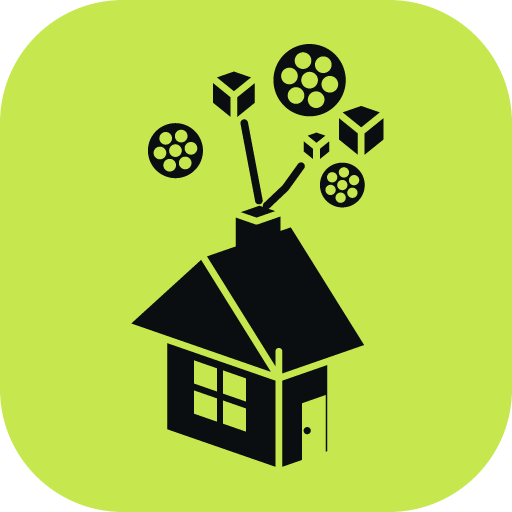
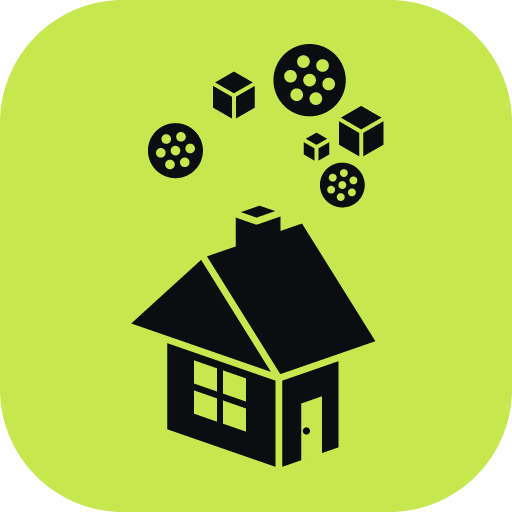
fix(brand): drop the chimney trails, and fix the door slit and cube axes
Four things, three of them real geometry bugs.

The trails are gone. A stroke thin enough not to dominate the mark is one
that reads as a scratch at icon size, and no amount of curving fixed that.
The objects convey "out of the chimney" by where they sit.

The door ended a fraction short of the wall's edge, leaving a hairline of
wall that rendered as a detached slit rather than a door frame. The wall is
deeper now and the door has real margin either side.

The wall seam's endpoint was computed with the sign of the overhang term
inverted, so it overshot the eave by 2·OVER·KY and ran up through the roof.
It now ends at the eave corner itself, which sits at the same x and cannot
drift.

Cubes borrowed the house's projection. The house is deliberately shallow so
its ridge does not climb away from the chimney, and at that ratio a small
cube's top face collapses into a sliver — every cube looked like a bent
card. They are on true isometric axes now, with a seam width scaled to their
own size rather than the roof's. Ball perforations shrank so there is solid
black between them instead of a flower outline.

diff --git a/src/components/brandArt.ts b/src/components/brandArt.ts
@@ -5,19 +5,18 @@ export const BRAND_BOX = 64
 export const BRAND_LIME = '#c6e84e'
 export const BRAND_TILE_RADIUS = 0.24
 export const BRAND_SEAM_WIDTH = 0.85
-export const BRAND_TRAIL_WIDTH = 0.95
 
 /** Filled in ink. Balls carry their holes, so these need fill-rule="evenodd". */
 export const BRAND_INK: string[] = [
-  "M20.9 53.66 L34.86 58.5 L40.91 56.4 L40.91 43.5 L34.86 45.6 L20.9 40.76 Z",
-  "M16.05 40.76 L25.46 32.19 L36.35 28.42 L45.75 43.5 L34.86 47.28 Z",
+  "M20.9 53.66 L34.86 58.5 L42.31 55.92 L42.31 43.02 L34.86 45.6 L20.9 40.76 Z",
+  "M16.05 40.76 L25.46 32.19 L37.75 27.94 L47.15 43.02 L34.86 47.28 Z",
   "M29.46 26.74 L32.44 25.71 L35.05 26.61 L35.05 35.86 L32.07 36.89 L29.46 35.99 Z",
-  "M29.24 8.94 L31.85 9.84 L31.85 12.85 L29.24 14.96 L26.64 12.85 L26.64 9.84 Z",
-  "M45.15 13.24 L47.95 14.21 L47.95 17.43 L45.15 19.69 L42.36 17.43 L42.36 14.21 Z",
-  "M39.56 16.57 L41.15 17.12 L41.15 18.95 L39.56 20.23 L37.98 18.95 L37.98 17.12 Z",
-  "M34.18 10.02 a4.52 4.52 0 1 0 9.04 0 a4.52 4.52 0 1 0 -9.04 0 Z M37.66 10.02 a1.04 1.04 0 1 0 2.08 0 a1.04 1.04 0 1 0 -2.08 0 Z M40.19 10.53 a1.04 1.04 0 1 0 2.08 0 a1.04 1.04 0 1 0 -2.08 0 Z M38.48 12.46 a1.04 1.04 0 1 0 2.08 0 a1.04 1.04 0 1 0 -2.08 0 Z M35.96 11.94 a1.04 1.04 0 1 0 2.08 0 a1.04 1.04 0 1 0 -2.08 0 Z M35.14 9.5 a1.04 1.04 0 1 0 2.08 0 a1.04 1.04 0 1 0 -2.08 0 Z M36.84 7.58 a1.04 1.04 0 1 0 2.08 0 a1.04 1.04 0 1 0 -2.08 0 Z M39.37 8.09 a1.04 1.04 0 1 0 2.08 0 a1.04 1.04 0 1 0 -2.08 0 Z",
-  "M18.49 18.83 a3.44 3.44 0 1 0 6.88 0 a3.44 3.44 0 1 0 -6.88 0 Z M21.14 18.83 a0.79 0.79 0 1 0 1.58 0 a0.79 0.79 0 1 0 -1.58 0 Z M22.36 20.37 a0.79 0.79 0 1 0 1.58 0 a0.79 0.79 0 1 0 -1.58 0 Z M20.42 20.65 a0.79 0.79 0 1 0 1.58 0 a0.79 0.79 0 1 0 -1.58 0 Z M19.2 19.12 a0.79 0.79 0 1 0 1.58 0 a0.79 0.79 0 1 0 -1.58 0 Z M19.92 17.29 a0.79 0.79 0 1 0 1.58 0 a0.79 0.79 0 1 0 -1.58 0 Z M21.86 17.01 a0.79 0.79 0 1 0 1.58 0 a0.79 0.79 0 1 0 -1.58 0 Z M23.08 18.54 a0.79 0.79 0 1 0 1.58 0 a0.79 0.79 0 1 0 -1.58 0 Z",
-  "M39.99 23.13 a2.8 2.8 0 1 0 5.6 0 a2.8 2.8 0 1 0 -5.6 0 Z M42.15 23.13 a0.64 0.64 0 1 0 1.28 0 a0.64 0.64 0 1 0 -1.28 0 Z M41.94 24.71 a0.64 0.64 0 1 0 1.28 0 a0.64 0.64 0 1 0 -1.28 0 Z M40.68 23.74 a0.64 0.64 0 1 0 1.28 0 a0.64 0.64 0 1 0 -1.28 0 Z M40.88 22.16 a0.64 0.64 0 1 0 1.28 0 a0.64 0.64 0 1 0 -1.28 0 Z M42.35 21.55 a0.64 0.64 0 1 0 1.28 0 a0.64 0.64 0 1 0 -1.28 0 Z M43.62 22.52 a0.64 0.64 0 1 0 1.28 0 a0.64 0.64 0 1 0 -1.28 0 Z M43.41 24.1 a0.64 0.64 0 1 0 1.28 0 a0.64 0.64 0 1 0 -1.28 0 Z"
+  "M29.24 8.94 L31.85 10.45 L31.85 13.46 L29.24 14.96 L26.64 13.46 L26.64 10.45 Z",
+  "M45.15 13.24 L47.95 14.85 L47.95 18.08 L45.15 19.69 L42.36 18.08 L42.36 14.85 Z",
+  "M39.56 16.57 L41.15 17.49 L41.15 19.31 L39.56 20.23 L37.98 19.31 L37.98 17.49 Z",
+  "M34.18 10.02 a4.52 4.52 0 1 0 9.04 0 a4.52 4.52 0 1 0 -9.04 0 Z M37.91 10.02 a0.79 0.79 0 1 0 1.58 0 a0.79 0.79 0 1 0 -1.58 0 Z M40.3 10.5 a0.79 0.79 0 1 0 1.58 0 a0.79 0.79 0 1 0 -1.58 0 Z M38.69 12.33 a0.79 0.79 0 1 0 1.58 0 a0.79 0.79 0 1 0 -1.58 0 Z M36.3 11.84 a0.79 0.79 0 1 0 1.58 0 a0.79 0.79 0 1 0 -1.58 0 Z M35.52 9.53 a0.79 0.79 0 1 0 1.58 0 a0.79 0.79 0 1 0 -1.58 0 Z M37.14 7.7 a0.79 0.79 0 1 0 1.58 0 a0.79 0.79 0 1 0 -1.58 0 Z M39.53 8.19 a0.79 0.79 0 1 0 1.58 0 a0.79 0.79 0 1 0 -1.58 0 Z",
+  "M18.49 18.83 a3.44 3.44 0 1 0 6.88 0 a3.44 3.44 0 1 0 -6.88 0 Z M21.33 18.83 a0.6 0.6 0 1 0 1.2 0 a0.6 0.6 0 1 0 -1.2 0 Z M22.49 20.29 a0.6 0.6 0 1 0 1.2 0 a0.6 0.6 0 1 0 -1.2 0 Z M20.65 20.56 a0.6 0.6 0 1 0 1.2 0 a0.6 0.6 0 1 0 -1.2 0 Z M19.5 19.1 a0.6 0.6 0 1 0 1.2 0 a0.6 0.6 0 1 0 -1.2 0 Z M20.18 17.38 a0.6 0.6 0 1 0 1.2 0 a0.6 0.6 0 1 0 -1.2 0 Z M22.02 17.1 a0.6 0.6 0 1 0 1.2 0 a0.6 0.6 0 1 0 -1.2 0 Z M23.17 18.56 a0.6 0.6 0 1 0 1.2 0 a0.6 0.6 0 1 0 -1.2 0 Z",
+  "M39.99 23.13 a2.8 2.8 0 1 0 5.6 0 a2.8 2.8 0 1 0 -5.6 0 Z M42.3 23.13 a0.49 0.49 0 1 0 0.98 0 a0.49 0.49 0 1 0 -0.98 0 Z M42.1 24.63 a0.49 0.49 0 1 0 0.98 0 a0.49 0.49 0 1 0 -0.98 0 Z M40.9 23.71 a0.49 0.49 0 1 0 0.98 0 a0.49 0.49 0 1 0 -0.98 0 Z M41.1 22.21 a0.49 0.49 0 1 0 0.98 0 a0.49 0.49 0 1 0 -0.98 0 Z M42.49 21.63 a0.49 0.49 0 1 0 0.98 0 a0.49 0.49 0 1 0 -0.98 0 Z M43.69 22.55 a0.49 0.49 0 1 0 0.98 0 a0.49 0.49 0 1 0 -0.98 0 Z M43.5 24.05 a0.49 0.49 0 1 0 0.98 0 a0.49 0.49 0 1 0 -0.98 0 Z"
 ]
 
 /** Filled in the tile colour, on top: the window panes and the door. */
@@ -26,47 +25,82 @@ export const BRAND_CUTS: string[] = [
   "M27.13 48.94 L24.25 47.94 L24.25 45.04 L27.13 46.04 Z",
   "M30.76 53.96 L27.88 52.96 L27.88 50.06 L30.76 51.06 Z",
   "M27.13 52.71 L24.25 51.71 L24.25 48.8 L27.13 49.8 Z",
-  "M37.75 57.5 L40.72 56.47 L40.72 49.37 L37.75 50.41 Z"
+  "M37.65 57.53 L40.26 56.63 L40.26 49.53 L37.65 50.44 Z"
 ]
 
 /** Stroked in the tile colour: the seams where one face meets another. */
-export const BRAND_SEAMS: string[] = [
-  "M16.05 40.76 L34.86 47.28 L45.75 43.5",
-  "M34.86 47.28 L25.46 32.19",
-  "M34.86 58.5 L34.86 43.92",
-  "M32.07 27.65 L35.05 26.61",
-  "M32.07 27.65 L29.46 26.74",
-  "M29.24 11.95 L26.64 9.84",
-  "M29.24 11.95 L31.85 9.84",
-  "M29.24 11.95 L29.24 14.96",
-  "M45.15 16.47 L42.36 14.21",
-  "M45.15 16.47 L47.95 14.21",
-  "M45.15 16.47 L45.15 19.69",
-  "M39.56 18.4 L37.98 17.12",
-  "M39.56 18.4 L41.15 17.12",
-  "M39.56 18.4 L39.56 20.23"
+export const BRAND_SEAMS: { d: string; width: number }[] = [
+  {
+    "d": "M16.05 40.76 L34.86 47.28 L47.15 43.02",
+    "width": 0.85
+  },
+  {
+    "d": "M34.86 47.28 L25.46 32.19",
+    "width": 0.85
+  },
+  {
+    "d": "M34.86 58.5 L34.86 47.28",
+    "width": 0.85
+  },
+  {
+    "d": "M32.07 27.65 L35.05 26.61",
+    "width": 0.85
+  },
+  {
+    "d": "M32.07 27.65 L29.46 26.74",
+    "width": 0.85
+  },
+  {
+    "d": "M29.24 11.95 L26.64 10.45",
+    "width": 0.5
+  },
+  {
+    "d": "M29.24 11.95 L31.85 10.45",
+    "width": 0.5
+  },
+  {
+    "d": "M29.24 11.95 L29.24 14.96",
+    "width": 0.5
+  },
+  {
+    "d": "M45.15 16.47 L42.36 14.85",
+    "width": 0.5
+  },
+  {
+    "d": "M45.15 16.47 L47.95 14.85",
+    "width": 0.5
+  },
+  {
+    "d": "M45.15 16.47 L45.15 19.69",
+    "width": 0.5
+  },
+  {
+    "d": "M39.56 18.4 L37.98 17.49",
+    "width": 0.5
+  },
+  {
+    "d": "M39.56 18.4 L41.15 17.49",
+    "width": 0.5
+  },
+  {
+    "d": "M39.56 18.4 L39.56 20.23",
+    "width": 0.5
+  }
 ]
 
 /** Back in ink, over the cuts: the door handle. */
 export const BRAND_DOTS: string[] = [
-  "M37.95 53.83 a0.45 0.45 0 1 0 0.9 0 a0.45 0.45 0 1 0 -0.9 0 Z"
-]
-
-/** Stroked in ink: the trails out of the chimney. */
-export const BRAND_TRAILS: string[] = [
-  "M31.29 25.6 C29.46 23.78 27.31 22.06 25.37 20.55",
-  "M32.36 25.07 C31.72 21.84 30.96 18.4 30.53 15.39",
-  "M33.33 25.71 C35.05 24.42 36.45 22.7 37.63 20.77"
+  "M37.85 53.87 a0.45 0.45 0 1 0 0.9 0 a0.45 0.45 0 1 0 -0.9 0 Z"
 ]
 
 /** One flat silhouette, for anywhere the mark must survive as a single shape. */
 export const BRAND_SOLID: string[] = [
-  "M20.9 53.66 L34.86 58.5 L40.91 56.4 L40.91 43.5 L34.86 45.6 L20.9 40.76 Z",
-  "M16.05 40.76 L25.46 32.19 L36.35 28.42 L45.75 43.5 L34.86 47.28 Z",
+  "M20.9 53.66 L34.86 58.5 L42.31 55.92 L42.31 43.02 L34.86 45.6 L20.9 40.76 Z",
+  "M16.05 40.76 L25.46 32.19 L37.75 27.94 L47.15 43.02 L34.86 47.28 Z",
   "M29.46 26.74 L32.44 25.71 L35.05 26.61 L35.05 35.86 L32.07 36.89 L29.46 35.99 Z",
-  "M29.24 8.94 L31.85 9.84 L31.85 12.85 L29.24 14.96 L26.64 12.85 L26.64 9.84 Z",
-  "M45.15 13.24 L47.95 14.21 L47.95 17.43 L45.15 19.69 L42.36 17.43 L42.36 14.21 Z",
-  "M39.56 16.57 L41.15 17.12 L41.15 18.95 L39.56 20.23 L37.98 18.95 L37.98 17.12 Z",
+  "M29.24 8.94 L31.85 10.45 L31.85 13.46 L29.24 14.96 L26.64 13.46 L26.64 10.45 Z",
+  "M45.15 13.24 L47.95 14.85 L47.95 18.08 L45.15 19.69 L42.36 18.08 L42.36 14.85 Z",
+  "M39.56 16.57 L41.15 17.49 L41.15 19.31 L39.56 20.23 L37.98 19.31 L37.98 17.49 Z",
   "M43.22 10.02 L43.16 10.72 L43 11.41 L42.73 12.06 L42.36 12.67 L41.9 13.21 L41.36 13.67 L40.75 14.04 L40.1 14.31 L39.41 14.47 L38.7 14.53 L38 14.47 L37.31 14.31 L36.65 14.04 L36.05 13.67 L35.51 13.21 L35.05 12.67 L34.68 12.06 L34.41 11.41 L34.24 10.72 L34.19 10.02 L34.24 9.31 L34.41 8.62 L34.68 7.97 L35.05 7.36 L35.51 6.82 L36.05 6.36 L36.65 5.99 L37.31 5.72 L38 5.56 L38.7 5.5 L39.41 5.56 L40.1 5.72 L40.75 5.99 L41.36 6.36 L41.9 6.82 L42.36 7.36 L42.73 7.97 L43 8.62 L43.16 9.31 Z",
   "M25.37 18.83 L25.33 19.37 L25.2 19.89 L25 20.39 L24.72 20.85 L24.37 21.26 L23.95 21.61 L23.49 21.9 L23 22.1 L22.47 22.23 L21.93 22.27 L21.39 22.23 L20.87 22.1 L20.37 21.9 L19.91 21.61 L19.5 21.26 L19.15 20.85 L18.87 20.39 L18.66 19.89 L18.53 19.37 L18.49 18.83 L18.53 18.29 L18.66 17.77 L18.87 17.27 L19.15 16.81 L19.5 16.4 L19.91 16.05 L20.37 15.77 L20.87 15.56 L21.39 15.43 L21.93 15.39 L22.47 15.43 L23 15.56 L23.49 15.77 L23.95 16.05 L24.37 16.4 L24.72 16.81 L25 17.27 L25.2 17.77 L25.33 18.29 Z",
   "M45.58 23.13 L45.55 23.57 L45.45 23.99 L45.28 24.4 L45.05 24.77 L44.76 25.11 L44.43 25.39 L44.06 25.62 L43.65 25.79 L43.23 25.89 L42.79 25.93 L42.35 25.89 L41.92 25.79 L41.52 25.62 L41.15 25.39 L40.81 25.11 L40.53 24.77 L40.3 24.4 L40.13 23.99 L40.03 23.57 L39.99 23.13 L40.03 22.69 L40.13 22.27 L40.3 21.86 L40.53 21.49 L40.81 21.15 L41.15 20.87 L41.52 20.64 L41.92 20.47 L42.35 20.37 L42.79 20.34 L43.23 20.37 L43.65 20.47 L44.06 20.64 L44.43 20.87 L44.76 21.15 L45.05 21.49 L45.28 21.86 L45.45 22.27 L45.55 22.69 Z"

diff --git a/src/components/Brand.tsx b/src/components/Brand.tsx
@@ -5,11 +5,8 @@ import {
   BRAND_INK,
   BRAND_LIME,
   BRAND_SEAMS,
-  BRAND_SEAM_WIDTH,
   BRAND_SOLID,
   BRAND_TILE_RADIUS,
-  BRAND_TRAILS,
-  BRAND_TRAIL_WIDTH,
 } from './brandArt'
 
 /**
@@ -34,22 +31,19 @@ function Glyph({ ink, tile }: { ink: string; tile: string }) {
       {BRAND_CUTS.map((d) => (
         <path key={d} d={d} fill={tile} />
       ))}
-      {BRAND_SEAMS.map((d) => (
+      {BRAND_SEAMS.map((seam) => (
         <path
-          key={d}
-          d={d}
+          key={seam.d}
+          d={seam.d}
           fill="none"
           stroke={tile}
-          strokeWidth={BRAND_SEAM_WIDTH}
+          strokeWidth={seam.width}
           strokeLinecap="round"
           strokeLinejoin="round"
         />
       ))}
       {BRAND_DOTS.map((d) => (
         <path key={d} d={d} fill={ink} />
-      ))}
-      {BRAND_TRAILS.map((d) => (
-        <path key={d} d={d} fill="none" stroke={ink} strokeWidth={BRAND_TRAIL_WIDTH} strokeLinecap="round" />
       ))}
     </>
   )
@@ -65,9 +59,6 @@ function Solid({ ink }: { ink: string }) {
     <>
       {BRAND_SOLID.map((d) => (
         <path key={d} d={d} fill={ink} />
-      ))}
-      {BRAND_TRAILS.map((d) => (
-        <path key={d} d={d} fill="none" stroke={ink} strokeWidth={BRAND_TRAIL_WIDTH} strokeLinecap="round" />
       ))}
     </>
   )
